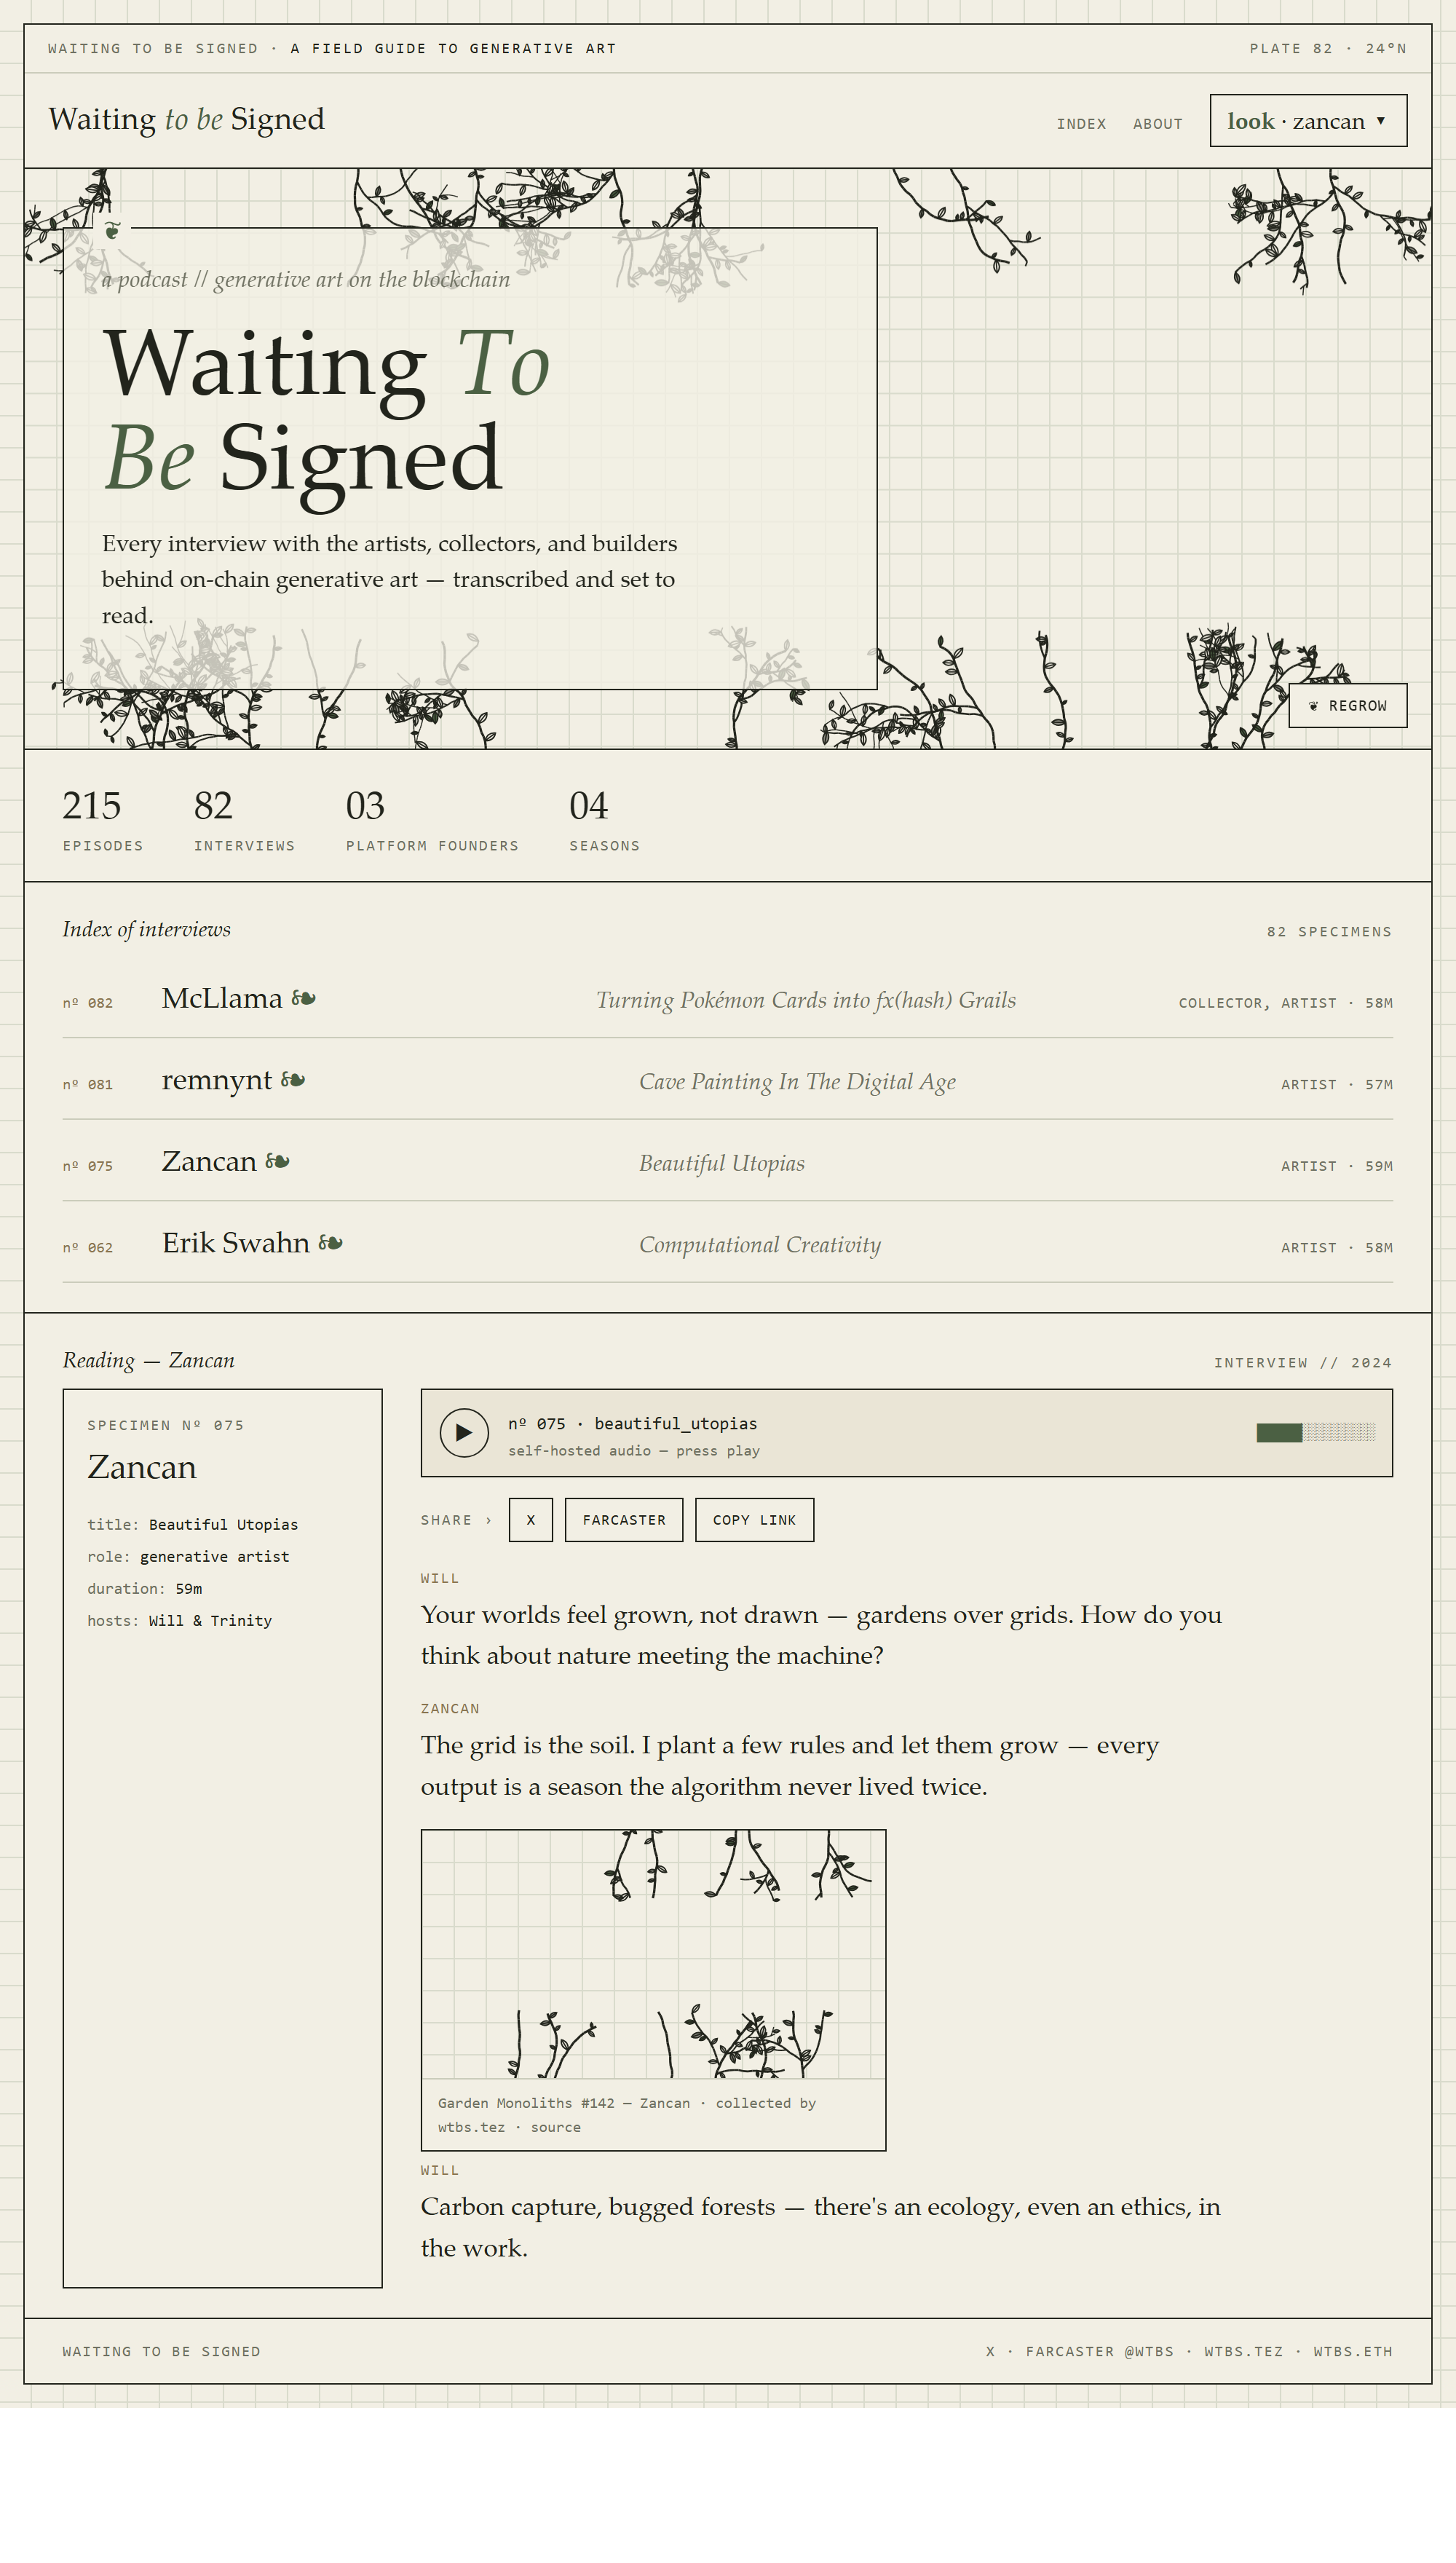
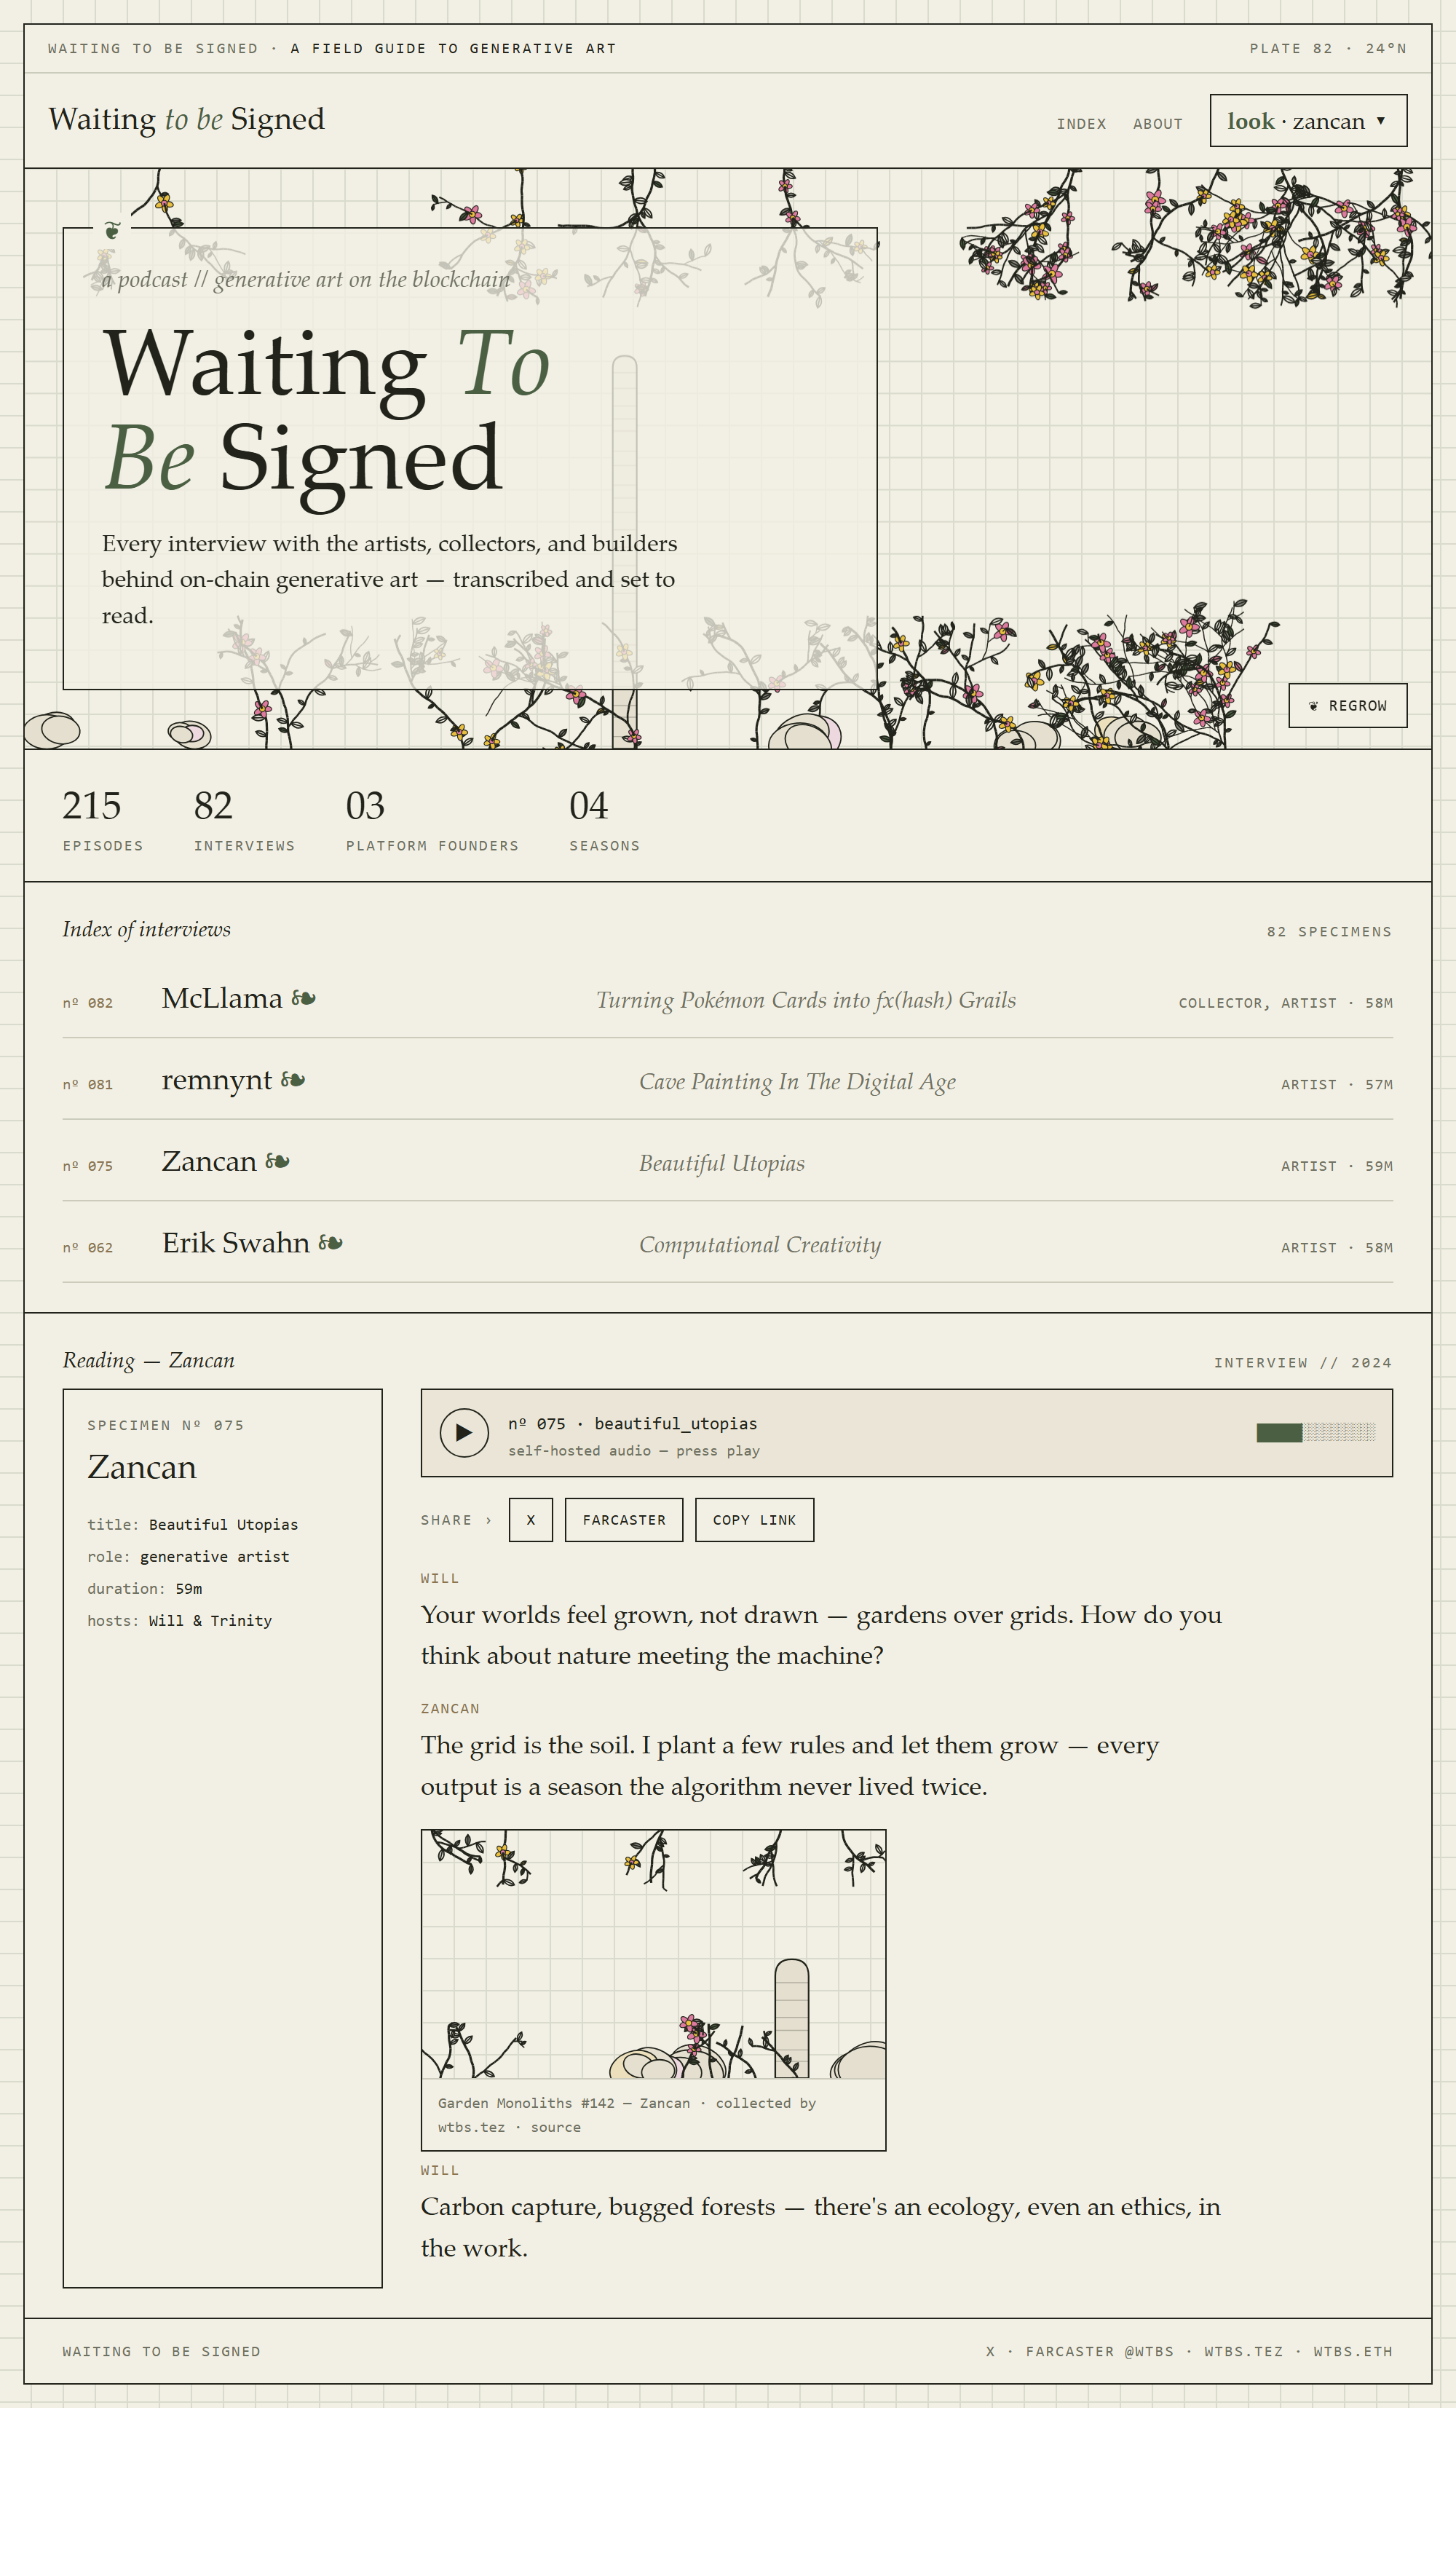
Zancan theme: add columns/monoliths, rocks, subtle pink/yellow blooms
Stone columns (with courses) and rock clusters now generate into the vine
field; a few leaves + small blooms use subtle pink/yellow highlights (not a
recolored palette), per his Monoliths/Monuments work.

diff --git a/design/zancan-theme-mockup.html b/design/zancan-theme-mockup.html
@@ -122,6 +122,7 @@
 <script>
 (function(){
   var PAPER='#f2efe4',INK='#22241c',GRID='#d9dbcc',MOSS='#4b6043',SEPIA='#8a7550';
+  var PINK='#dd7a9e',YELLOW='#e8bf3e',STONE='#e4dfcf',PINK_T='#ecd8de',YELLOW_T='#ece0bc';
   var reduce=window.matchMedia&&matchMedia('(prefers-reduced-motion: reduce)').matches;
   var STATIC=/[?&]static/.test(location.search);
   function mb(a){return function(){a|=0;a=a+0x6D2B79F5|0;var t=Math.imul(a^a>>>15,1|a);t=t+Math.imul(t^t>>>7,61|t)^t;return((t^t>>>14)>>>0)/4294967296;};}
@@ -130,10 +131,31 @@
     c.beginPath();c.moveTo(0,0);
     c.quadraticCurveTo(size*0.55,-size*0.42,size,0);
     c.quadraticCurveTo(size*0.55,size*0.42,0,0);c.closePath();
-    var f=rnd();c.fillStyle=f<0.16?MOSS:(f<0.4?'rgba(34,36,28,0.5)':PAPER);c.fill();
+    var f=rnd();c.fillStyle=f<0.04?PINK:f<0.08?YELLOW:f<0.22?MOSS:f<0.45?'rgba(34,36,28,0.5)':PAPER;c.fill();
     c.strokeStyle=INK;c.lineWidth=0.9;c.stroke();
     c.beginPath();c.moveTo(0,0);c.lineTo(size*0.9,0);c.stroke();
     c.restore();
+  }
+  function bloom(c,x,y,color,rnd){
+    var pet=5,rr=2.4+rnd()*1.8;
+    for(var i=0;i<pet;i++){var a=i/pet*6.283+rnd()*0.3;c.save();c.translate(x,y);c.rotate(a);
+      c.beginPath();c.ellipse(rr*0.9,0,rr*0.85,rr*0.5,0,0,7);c.fillStyle=color;c.fill();c.strokeStyle=INK;c.lineWidth=0.6;c.stroke();c.restore();}
+    c.beginPath();c.arc(x,y,rr*0.55,0,7);c.fillStyle=color===PINK?YELLOW:PINK;c.fill();c.strokeStyle=INK;c.lineWidth=0.6;c.stroke();
+  }
+  function column(c,x,baseY,w,h,rnd){
+    var topY=baseY-h;
+    c.fillStyle=STONE;c.strokeStyle=INK;c.lineWidth=1.1;
+    c.beginPath();c.moveTo(x,baseY);c.lineTo(x,topY+w*0.5);
+    c.quadraticCurveTo(x,topY,x+w*0.5,topY);c.quadraticCurveTo(x+w,topY,x+w,topY+w*0.5);
+    c.lineTo(x+w,baseY);c.closePath();c.fill();c.stroke();
+    c.strokeStyle='rgba(34,36,28,0.26)';c.lineWidth=0.7;
+    for(var yy=topY+w*0.7;yy<baseY;yy+=7+rnd()*7){c.beginPath();c.moveTo(x,yy);c.lineTo(x+w,yy);c.stroke();}
+  }
+  function rock(c,x,y,r,rnd){
+    var n=3+Math.floor(rnd()*3);
+    for(var i=0;i<n;i++){var rr=r*(0.5+rnd()*0.6),ox=(rnd()-0.5)*r,oy=(rnd()-0.5)*r*0.4,tt=rnd();
+      c.beginPath();c.ellipse(x+ox,y+oy,rr,rr*0.72,(rnd()-0.5),0,7);
+      c.fillStyle=tt<0.07?PINK_T:tt<0.14?YELLOW_T:STONE;c.fill();c.strokeStyle=INK;c.lineWidth=0.9;c.stroke();}
   }
   function field(cv,seed,scale){
     var rnd=mb(seed),d=Math.min(2,window.devicePixelRatio||1),r=cv.getBoundingClientRect();
@@ -143,6 +165,10 @@
     c.strokeStyle=GRID;c.lineWidth=1;var g=22;
     for(var gx=0;gx<W;gx+=g){c.beginPath();c.moveTo(gx,0);c.lineTo(gx,H);c.stroke();}
     for(var gy=0;gy<H;gy+=g){c.beginPath();c.moveTo(0,gy);c.lineTo(W,gy);c.stroke();}
+    var nc=1+Math.floor(rnd()*3);                                  // stone columns / monoliths (behind)
+    for(var ci=0;ci<nc;ci++){var cw2=(15+rnd()*16)*Math.max(0.7,scale),ch2=H*(0.42+rnd()*0.42);column(c,rnd()*(W-cw2),H,cw2,ch2,rnd);}
+    var nr=3+Math.floor(rnd()*4);                                  // rock clusters along the base
+    for(var ri=0;ri<nr;ri++){rock(c,rnd()*W,H-4-rnd()*10,(11+rnd()*16)*Math.max(0.7,scale),rnd);}
     var tips=[],cap=Math.round(W*H/135*scale),drawn=0;
     var nb=Math.round(W/85)+3;
     for(var i=0;i<nb;i++)tips.push({x:rnd()*W,y:H+4,a:-Math.PI/2+(rnd()-0.5)*0.55,life:90+rnd()*110,gen:0});
@@ -156,6 +182,7 @@
         t.x=nx;t.y=ny;t.a+=(rnd()-0.5)*0.5;t.a+=(t.y>H*0.5?-0.02:0.005)*(t.gen?1:1);
         t.life--;drawn++;
         if(rnd()<0.22)leaf(c,nx,ny,t.a+(rnd()<0.5?1.25:-1.25),4+rnd()*5.5*scale,rnd);
+        else if(rnd()<0.035)bloom(c,nx,ny,rnd()<0.5?PINK:YELLOW,rnd);
         if(rnd()<0.085&&t.gen<4&&drawn<cap){tips.push({x:nx,y:ny,a:t.a+(rnd()<0.5?0.75:-0.75),life:t.life*0.62,gen:t.gen+1});}
         if(t.x<-10||t.x>W+10||t.y<-10||t.y>H+10||drawn>cap)t.life=0;
       }